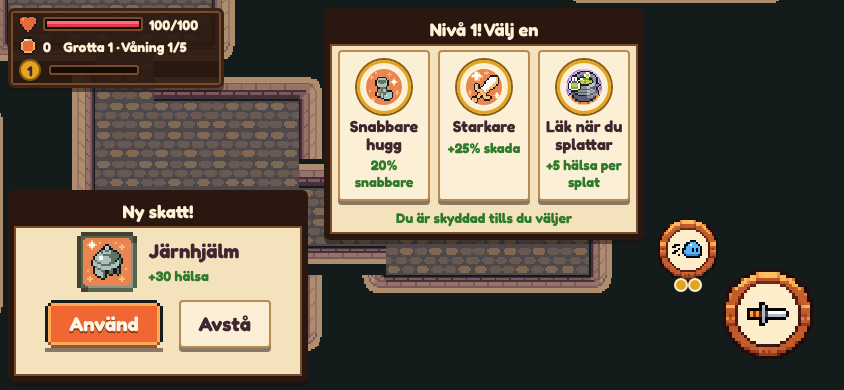
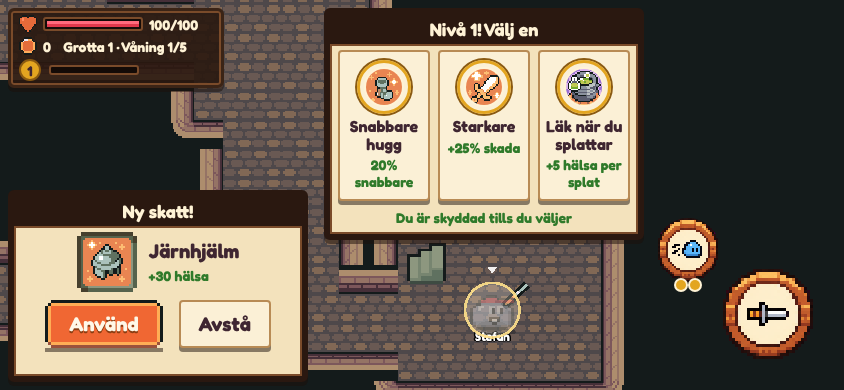
fix(dungeon): the camera keeps my blob in the free band while the loot / level-up cards are open (eased); e2e checks the blob is not under a card
Claude-Session: https://claude.ai/code/session_019PjhQxMPAQdpZt3g1GZEuX

Changed region(s): [[0.0, 0.0, 0.7393, 1.0], [0.0, 0.3077, 0.0308, 0.8923], [0.6777, 0.0, 0.9242, 0.0308]]

diff --git a/blobz/src/dungeonScene.ts b/blobz/src/dungeonScene.ts
@@ -515,8 +515,28 @@ export class DungeonScene extends Phaser.Scene {
     // landscape: the HUD sits top-left, so the camera keeps my blob a little right of centre (the room to its left stays
     // visible instead of hiding monsters under the HUD)
     const landscape = this.scale.width > this.scale.height;
-    if (me) { this.camTarget.x = me.x - (landscape ? 70 / cam.zoom : 0); this.camTarget.y = me.y; }
+    if (me) { this.camTarget.x = me.x - (landscape ? 70 / cam.zoom : 0); this.camTarget.y = me.y + this.cardShift(landscape) / cam.zoom; }
     cam.centerOn(cam.midPoint.x + (this.camTarget.x - cam.midPoint.x) * Math.min(1, dt * 6), cam.midPoint.y + (this.camTarget.y - cam.midPoint.y) * Math.min(1, dt * 6));
+  }
+
+  /** While the loot card or the level-up cards are open, keep my blob in the biggest free screen band (between the HUD
+   *  and the cards that cover my blob's column) instead of under a card. Returns how far the view centre moves down
+   *  (game px); the camera's own easing smooths it. */
+  private cardShift(landscape: boolean): number {
+    const H = window.innerHeight, cx = window.innerWidth / 2 + (landscape ? 70 * (window.innerHeight / this.scale.height) : 0);
+    const cards = ['dg-loot', 'dg-cards'].map((id) => document.getElementById(id))
+      .filter((e): e is HTMLElement => !!e && !e.classList.contains('hidden') && e.offsetParent !== null).map((e) => e.getBoundingClientRect())
+      .filter((r) => r.left < cx + 24 && r.right > cx - 24); // only cards over my blob's column
+    if (!cards.length) return 0;
+    const hud = document.getElementById('hud-dg')?.getBoundingClientRect();
+    const top = hud ? hud.bottom + 8 : 0;
+    // free bands between the HUD and the bottom of the screen, cut by the cards
+    let bands: [number, number][] = [[top, H]];
+    for (const r of cards) bands = bands.flatMap(([a, b]): [number, number][] => (r.bottom <= a || r.top >= b ? [[a, b]] : [[a, r.top], [r.bottom, b]])).filter(([a, b]) => b - a > 40);
+    if (!bands.length) return 0;
+    const [a, b] = bands.reduce((x, y) => (y[1] - y[0] > x[1] - x[0] ? y : x));
+    const want = (a + b) / 2; // where my blob should sit on screen
+    return (H / 2 - want) * (this.scale.height / H); // camera centre moves this far down from the blob (game px)
   }
 
   /** Weapon in hand: idle = first frame; a swing plays the 4-frame strip; the spin special whirls it. */
